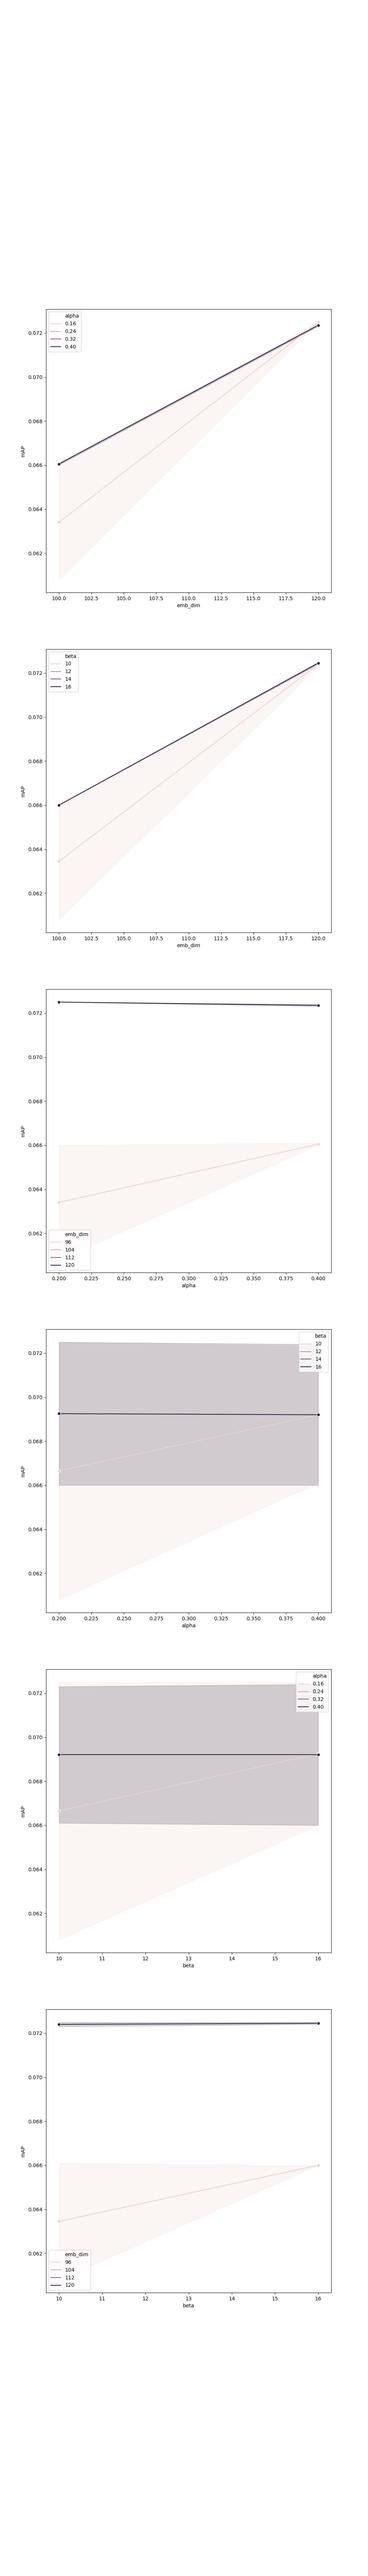
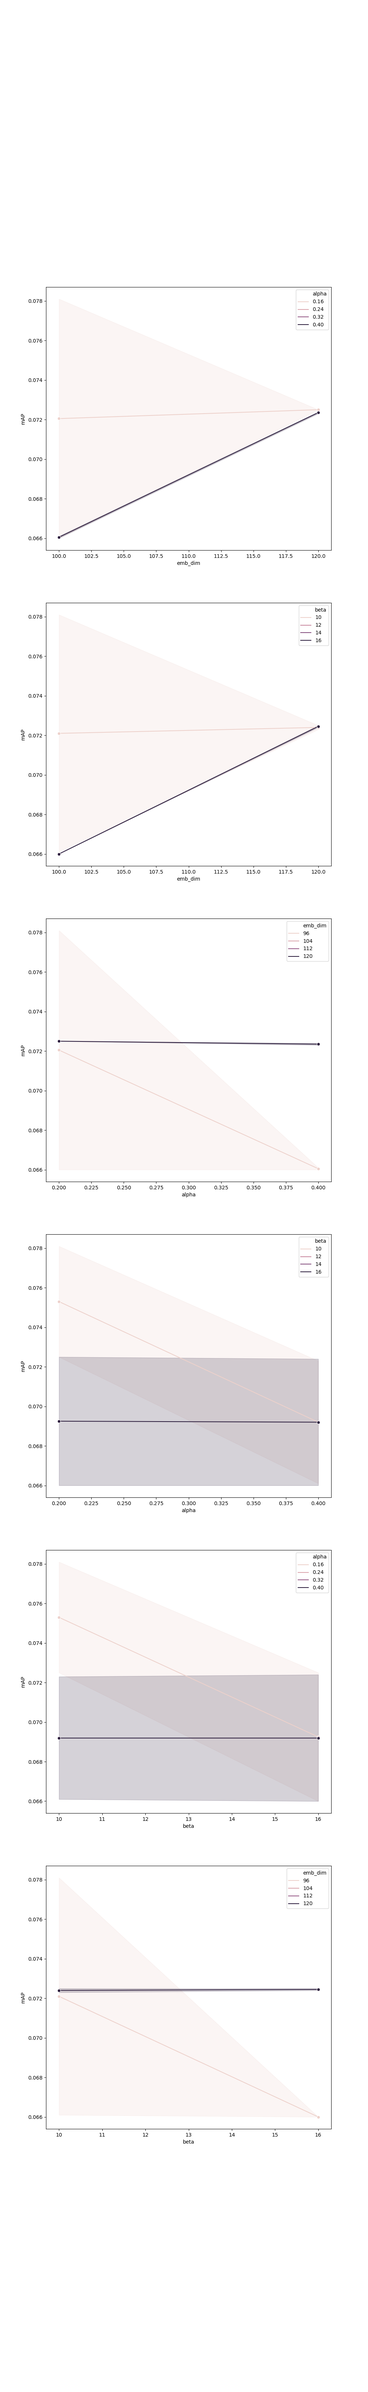
up: tune param

Changed region(s): [[0.155, 0.4997, 0.868, 0.812], [0.806, 0.2498, 0.868, 0.2811], [0.837, 0.1249, 0.868, 0.1562]]

diff --git a/tuning_link_pred.py b/tuning_link_pred.py
@@ -70,7 +70,7 @@ if __name__ == "__main__":
         'l2': 0.0005,
 
         # SDNE
-        'sdne_shuffle': True,
+        'sdne_shuffle': False,
         'sdne_load_model': False,
         'sdne_resume_training': False,
         'sdne_activation': 'relu',
@@ -140,9 +140,10 @@ if __name__ == "__main__":
                 df.append([emb_dim, alpha, beta, mAP])
 
     df = pd.DataFrame(data=df, columns=['emb_dim', 'alpha', 'beta', 'mAP'])
-    print(df)
+    print(df.sort_values(by=['mAP'], ascending=False))
 
-    fig_dims = (10, 60)
+    # sns.set(style="whitegrid")
+    fig_dims = (10, 65)
     fig, axs = plt.subplots(nrows=6, figsize=fig_dims)
     sns.lineplot(x='emb_dim', y='mAP', hue='alpha', data=df, ax=axs[0], marker="o")
     sns.lineplot(x='emb_dim', y='mAP', hue='beta', data=df, ax=axs[1], marker="o")
